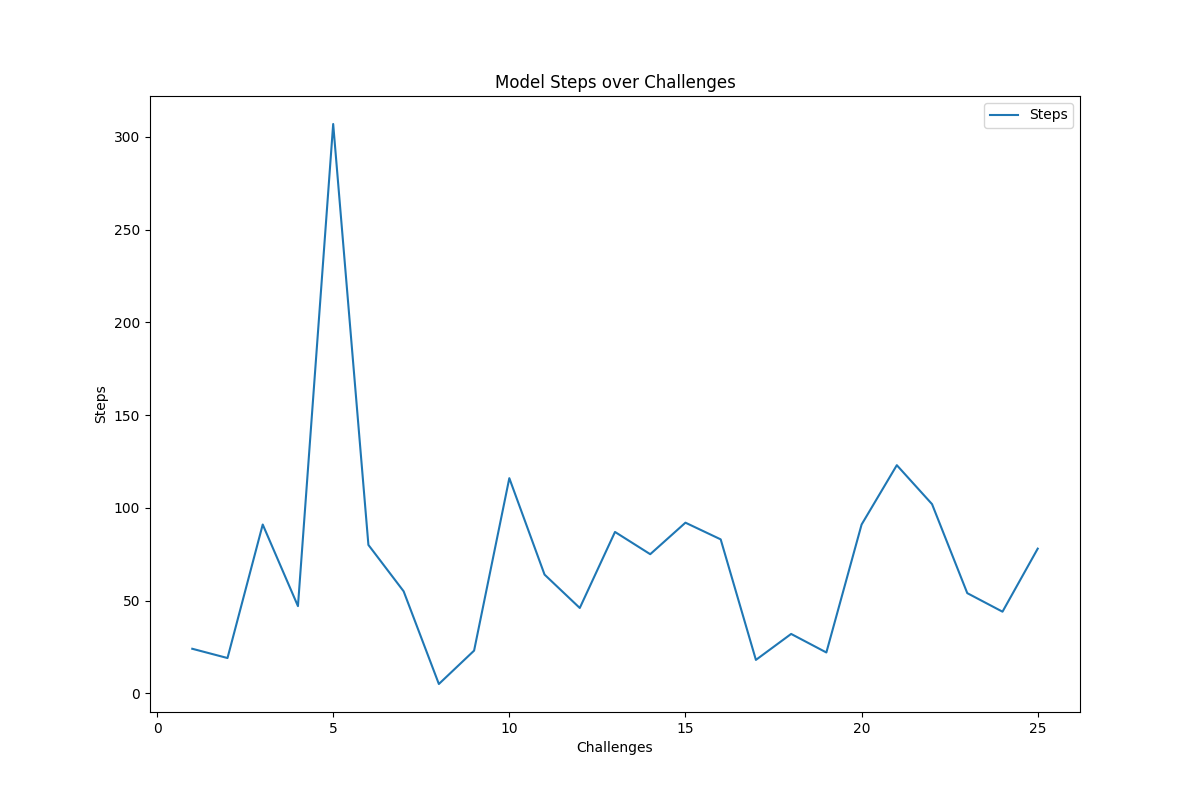
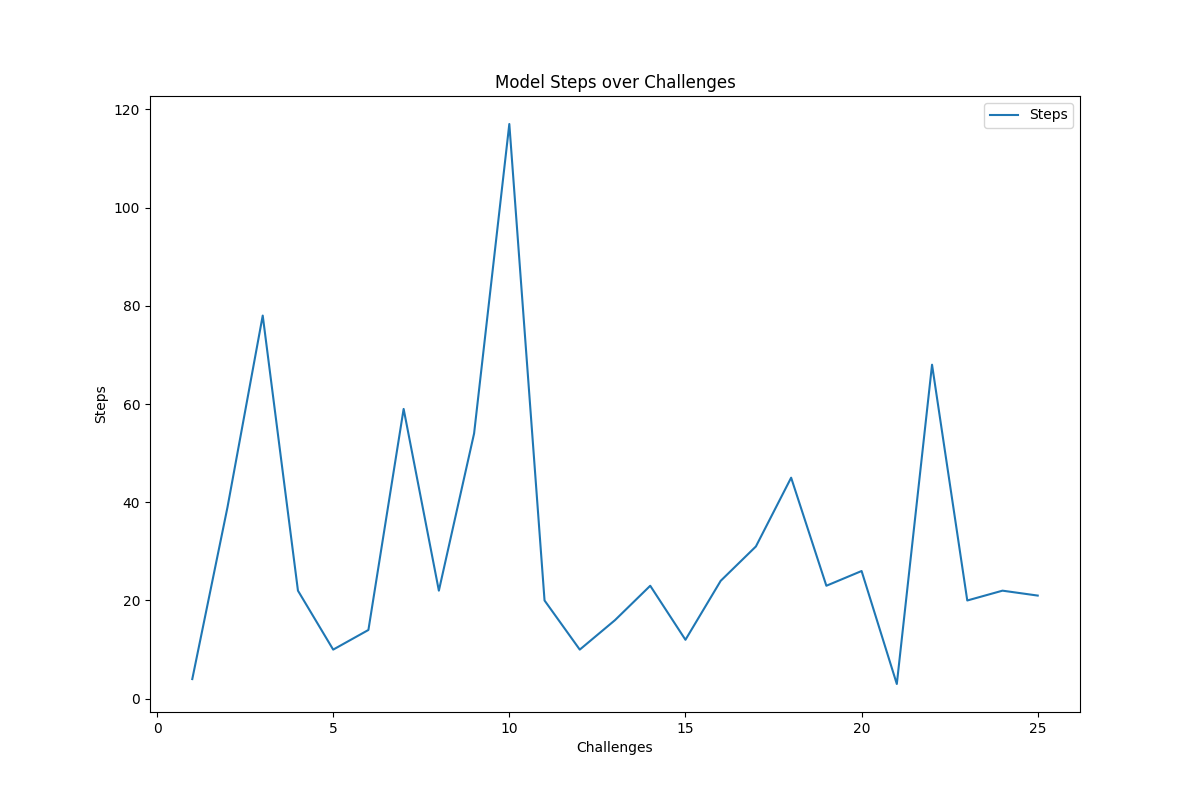
refactor(RL): add compared models

diff --git a/RL/evaluate_model_sqlmap.py b/RL/evaluate_model_sqlmap.py
@@ -11,7 +11,7 @@ import time
 from environment import SQLiEnv
 
 # Load the desired saved model
-best_model_path = "final_model/model.zip"
+best_model_path = "models/best_model.zip"
 model = SAC.load(best_model_path)
 
 
